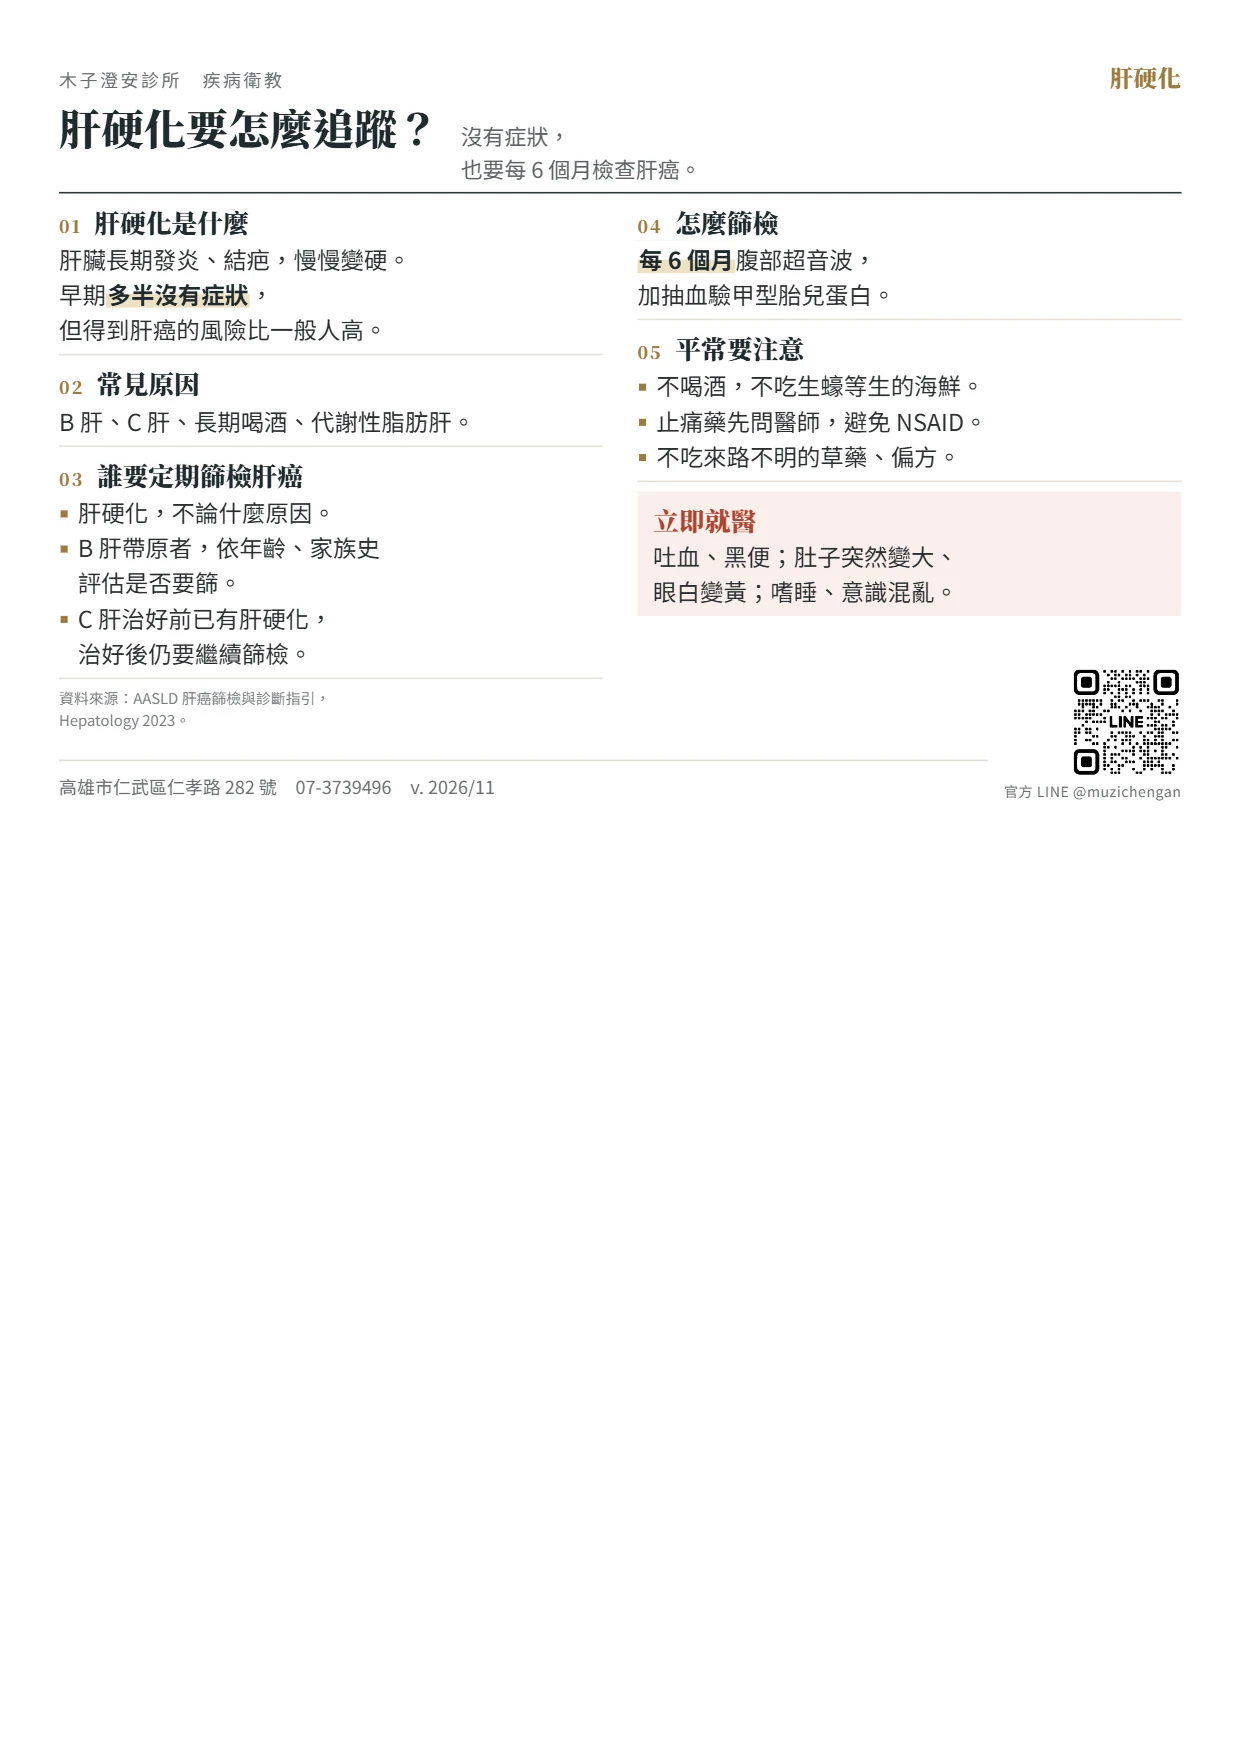
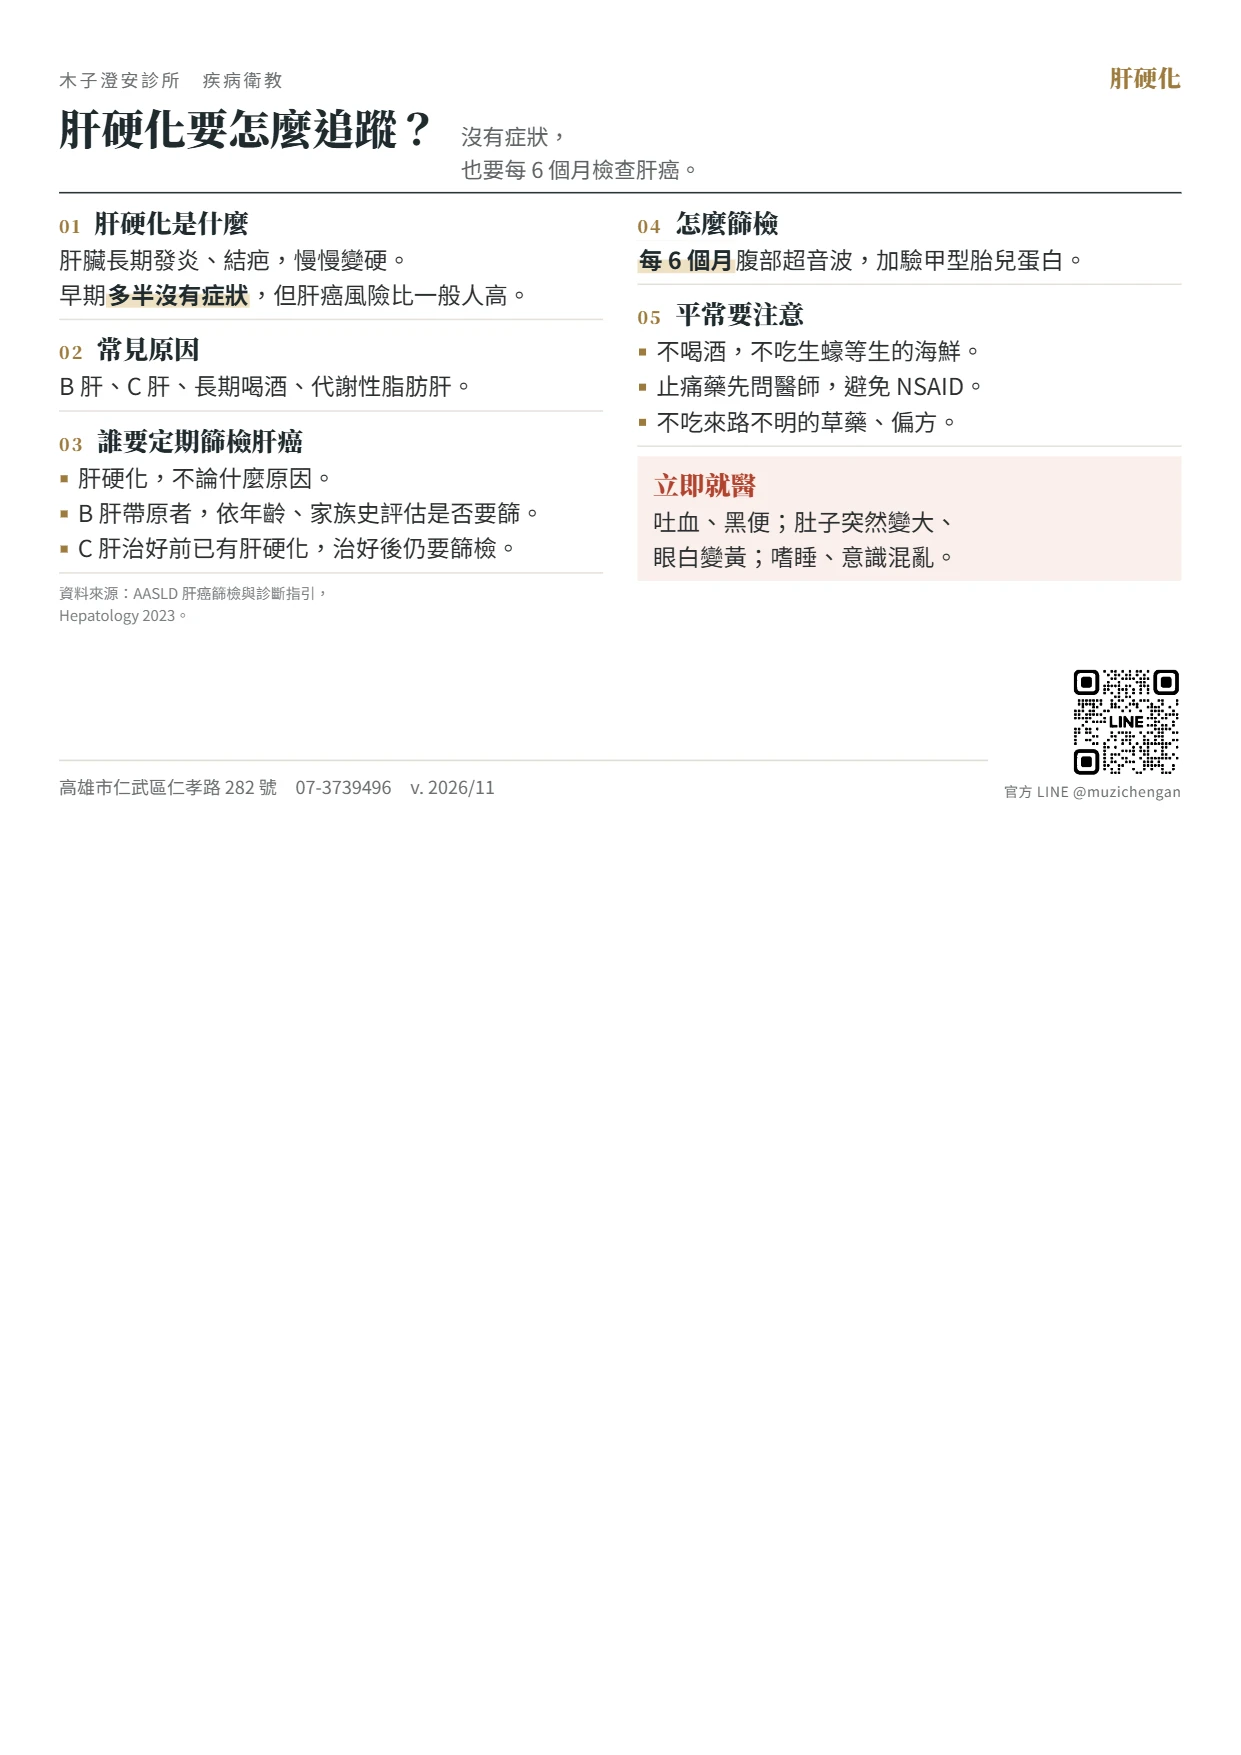
衛教：肝硬化衛教單四句縮成一行

Changed region(s): [[0.0306, 0.1538, 0.4287, 0.4308], [0.5205, 0.1538, 0.7961, 0.3692], [0.7043, 0.1231, 0.8574, 0.1538]]

diff --git a/edu-src/a5.html b/edu-src/a5.html
@@ -1585,20 +1585,20 @@ table.fm th.hi{color:var(--red);}
   <div class="cols">
     <div class="col">
       <div class="row"><div class="k"><small>01</small><b>肝硬化是什麼</b></div>
-        <div class="v"><p>肝臟長期發炎、結疤，慢慢變硬。<br>早期<span class="hl">多半沒有症狀</span>，<br>但得到肝癌的風險比一般人高。</p></div></div>
+        <div class="v"><p>肝臟長期發炎、結疤，慢慢變硬。<br>早期<span class="hl">多半沒有症狀</span>，但肝癌風險比一般人高。</p></div></div>
       <div class="row"><div class="k"><small>02</small><b>常見原因</b></div>
         <div class="v"><p>B 肝、C 肝、長期喝酒、代謝性脂肪肝。</p></div></div>
       <div class="row"><div class="k"><small>03</small><b>誰要定期篩檢肝癌</b></div>
         <div class="v"><ul class="d">
           <li>肝硬化，不論什麼原因。</li>
-          <li>B 肝帶原者，依年齡、家族史<br>評估是否要篩。</li>
-          <li>C 肝治好前已有肝硬化，<br>治好後仍要繼續篩檢。</li>
+          <li>B 肝帶原者，依年齡、家族史評估是否要篩。</li>
+          <li>C 肝治好前已有肝硬化，治好後仍要篩檢。</li>
         </ul></div></div>
       <p class="src">資料來源：AASLD 肝癌篩檢與診斷指引，<br>Hepatology 2023。</p>
     </div>
     <div class="col">
       <div class="row"><div class="k"><small>04</small><b>怎麼篩檢</b></div>
-        <div class="v"><p><span class="hl">每 6 個月</span>腹部超音波，<br>加抽血驗甲型胎兒蛋白。</p></div></div>
+        <div class="v"><p><span class="hl">每 6 個月</span>腹部超音波，加驗甲型胎兒蛋白。</p></div></div>
       <div class="row"><div class="k"><small>05</small><b>平常要注意</b></div>
         <div class="v"><ul class="d">
           <li>不喝酒，不吃生蠔等生的海鮮。</li>

diff --git a/sw.js b/sw.js
@@ -9,7 +9,7 @@
    工作台開啟後會把所有衛教與表單圖片預先存下，斷網時也能顯示與列印。
    網路很慢（伺服器 3 秒內沒回應，圖片 6 秒）時先用快取開啟，背景照樣把新版存下，下次開啟就是新版；
    以前會一直等到連線逾時，網路卡住時整個工作台白畫面。 */
-const CACHE = 'tools-v117';
+const CACHE = 'tools-v118';
 const CORE = [
   './', 'index.html',
   'mount.js', 'revision.js',
